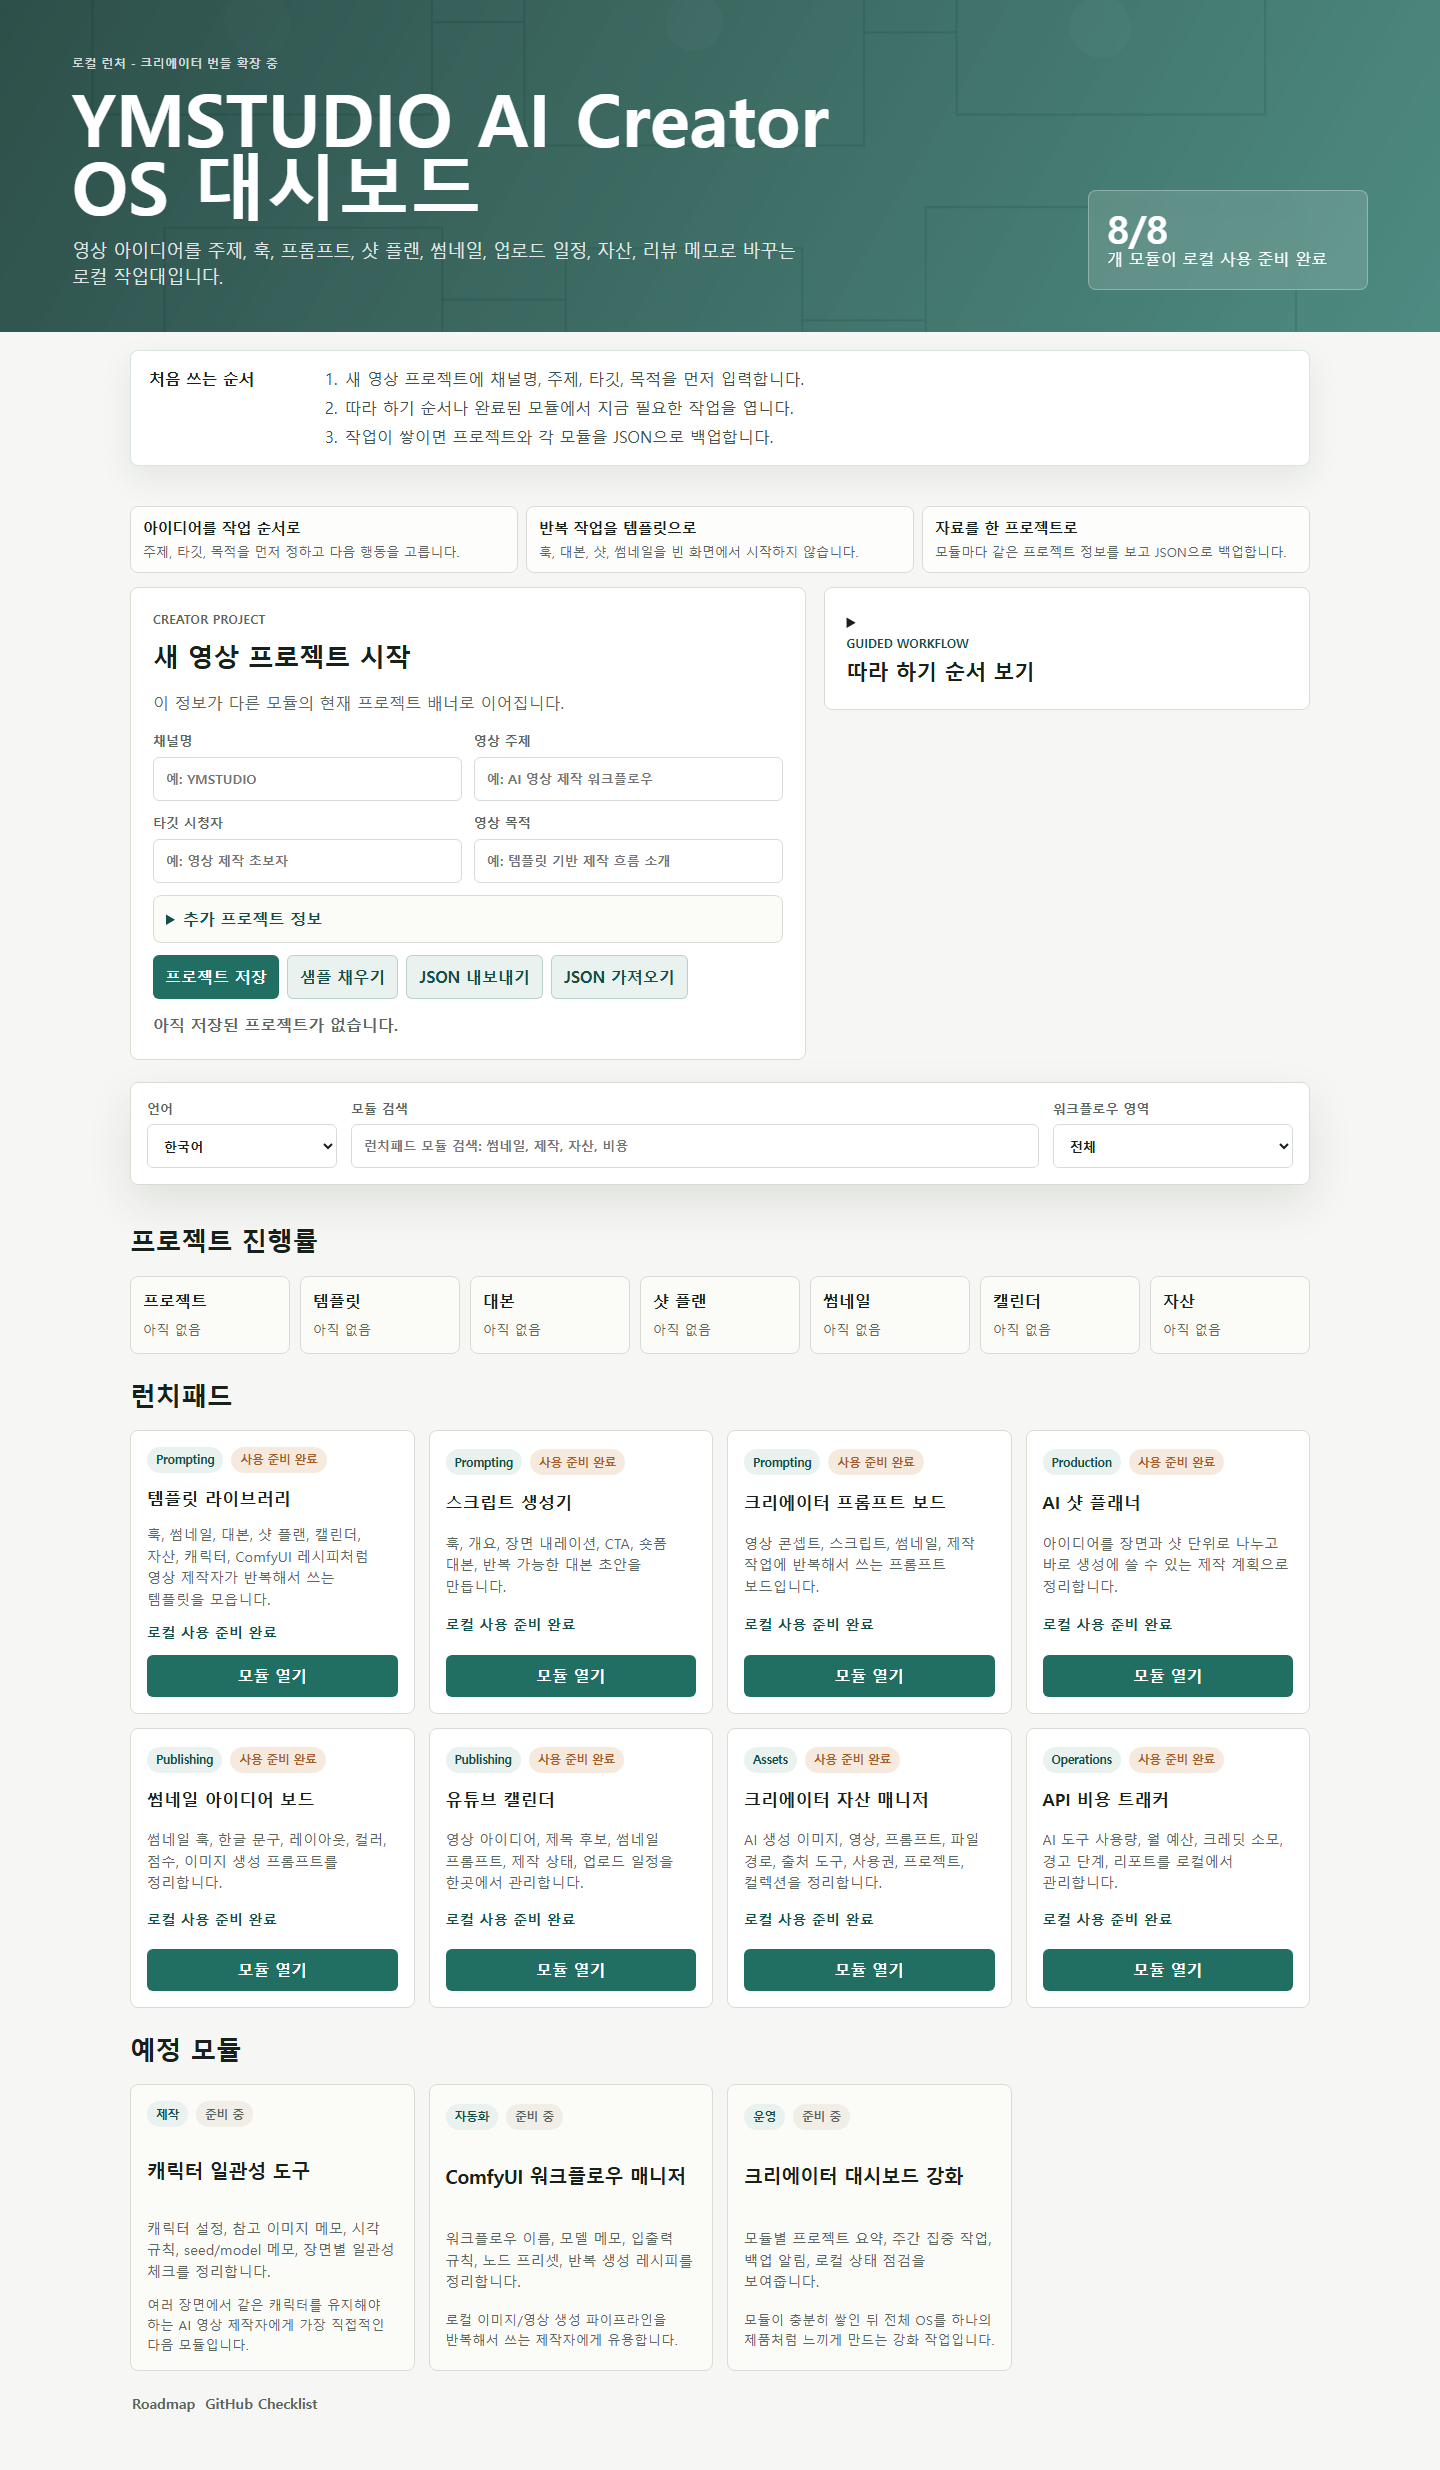
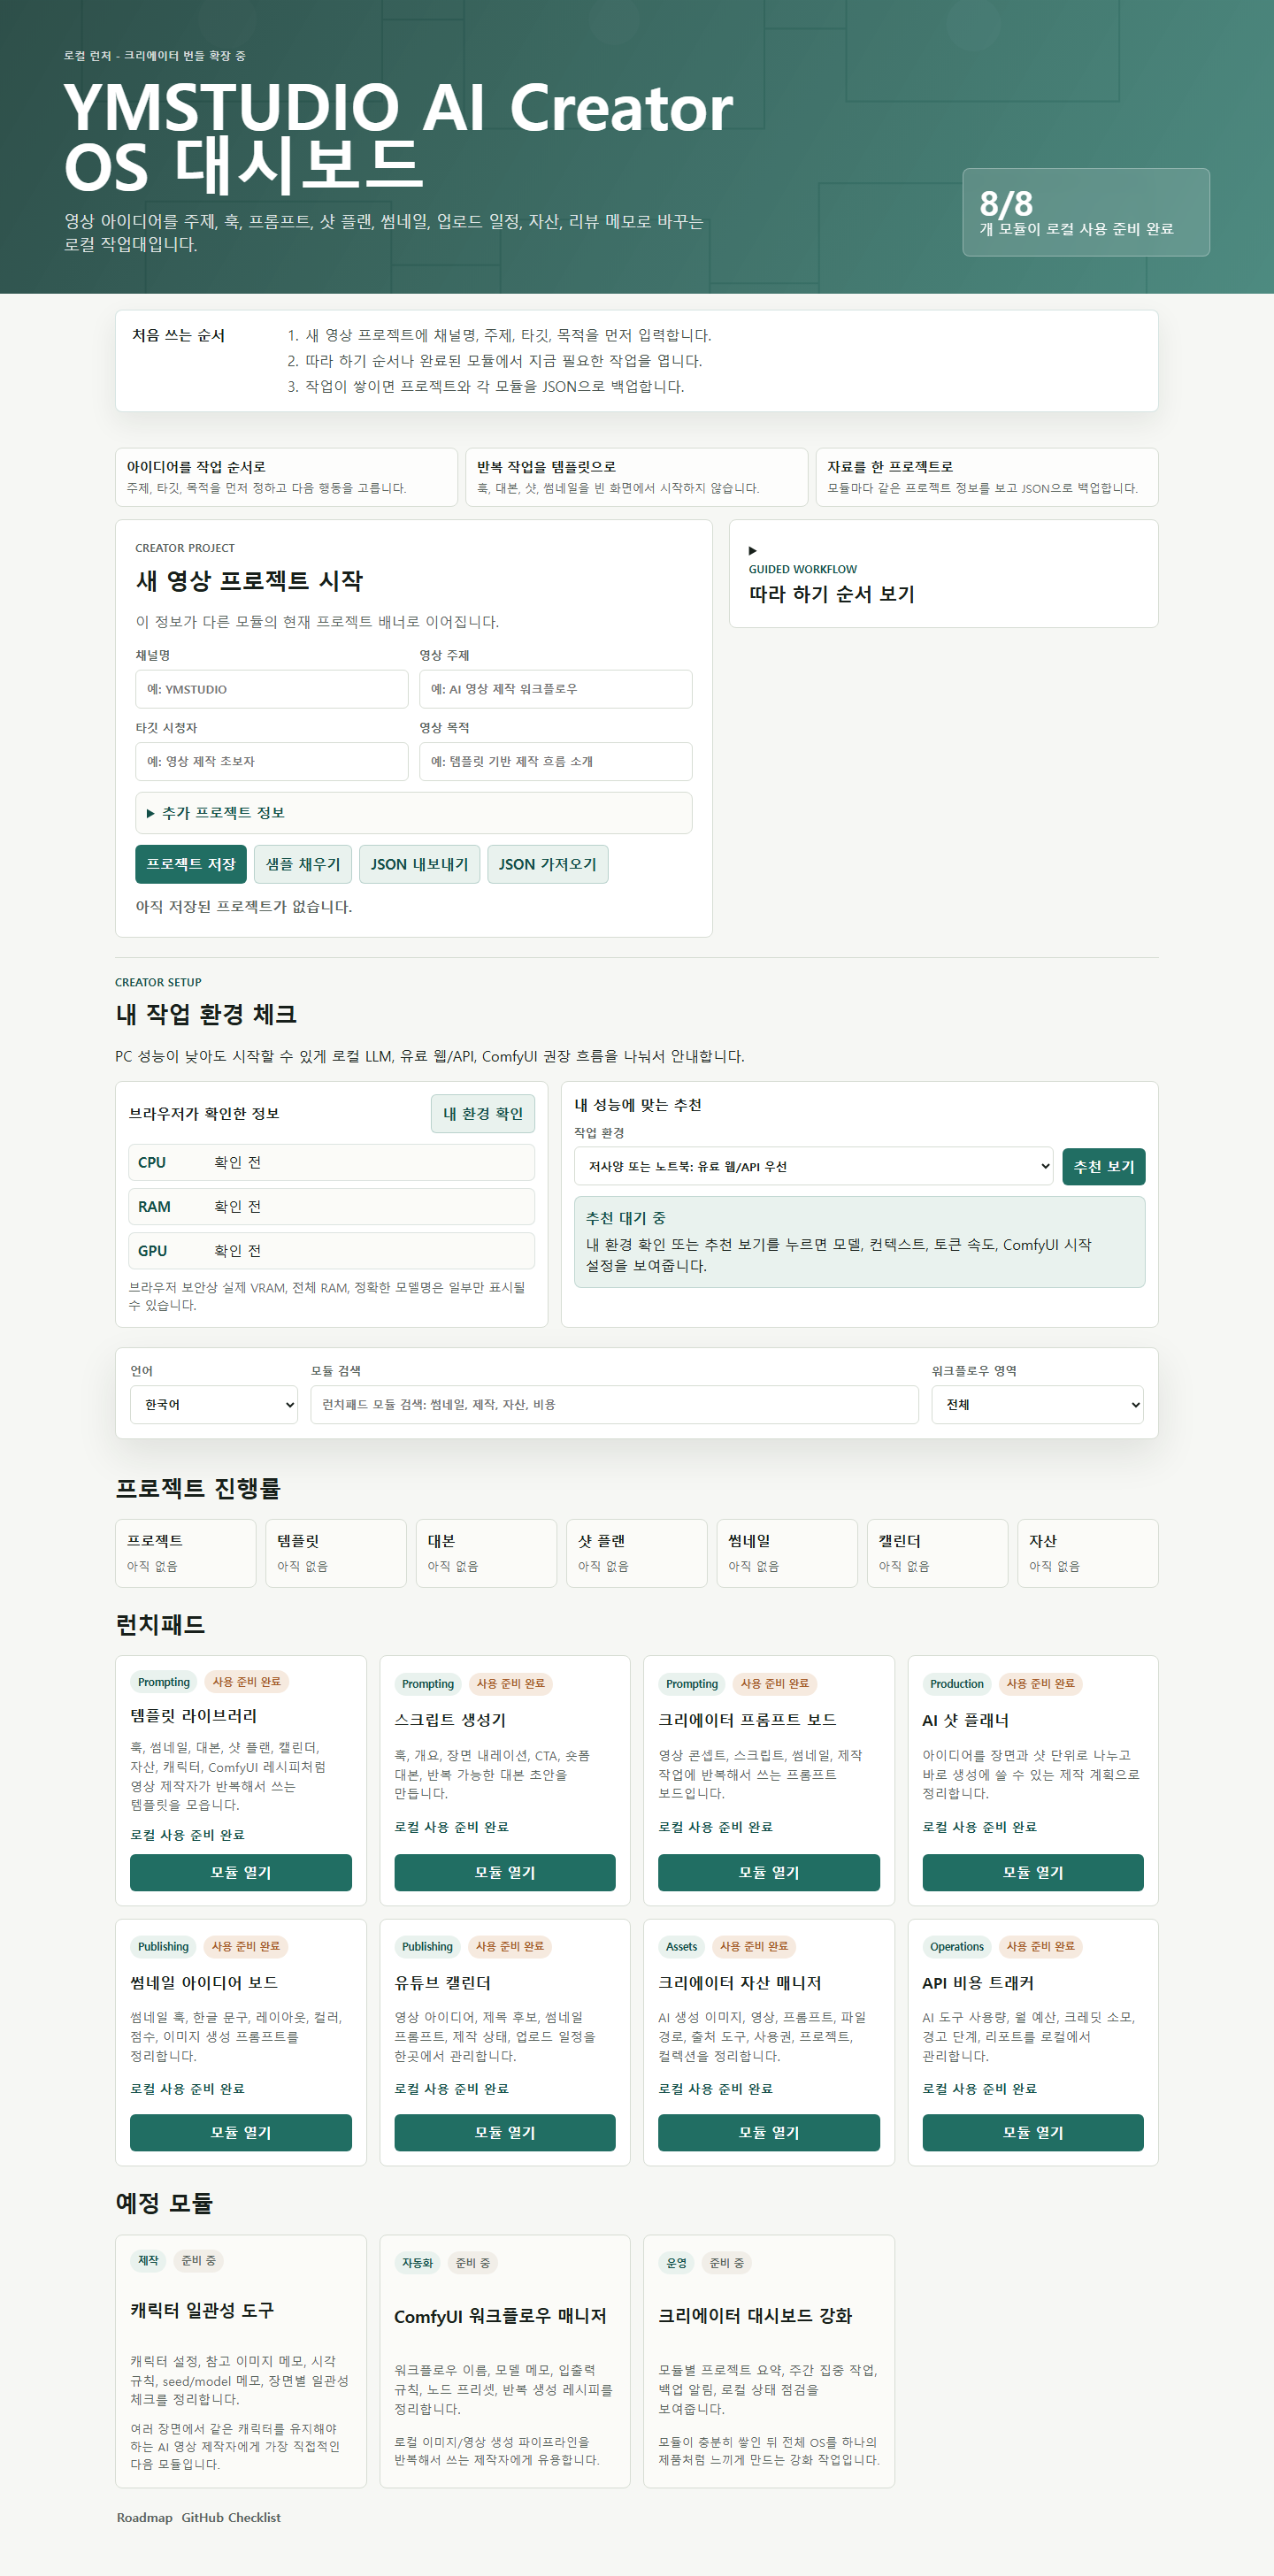
Add creator setup recommendation card

diff --git a/outputs/creator-os-dashboard/style.css b/outputs/creator-os-dashboard/style.css
@@ -287,6 +287,101 @@ button:focus {
   text-decoration: none;
 }
 
+.hardware-section {
+  border-top: 1px solid var(--line);
+  padding-top: 18px;
+}
+
+.hardware-grid {
+  display: grid;
+  grid-template-columns: minmax(0, 0.84fr) minmax(0, 1.16fr);
+  gap: 14px;
+}
+
+.hardware-card {
+  border: 1px solid var(--line);
+  border-radius: 8px;
+  padding: 14px;
+  background: var(--panel);
+}
+
+.hardware-card-heading,
+.hardware-controls {
+  display: flex;
+  gap: 10px;
+  align-items: center;
+  justify-content: space-between;
+}
+
+.hardware-controls {
+  align-items: end;
+  margin-top: 10px;
+}
+
+.hardware-controls label {
+  flex: 1 1 220px;
+}
+
+.hardware-specs {
+  display: grid;
+  gap: 8px;
+  margin: 12px 0 0;
+}
+
+.hardware-specs div {
+  display: grid;
+  grid-template-columns: 76px minmax(0, 1fr);
+  gap: 10px;
+  align-items: start;
+  border: 1px solid rgba(41, 92, 82, 0.14);
+  border-radius: 7px;
+  padding: 8px 10px;
+  background: #fbfbf8;
+}
+
+.hardware-specs dt {
+  color: var(--accent-strong);
+  font-weight: 900;
+}
+
+.hardware-specs dd {
+  margin: 0;
+  color: var(--text);
+  overflow-wrap: anywhere;
+}
+
+.hardware-note {
+  margin: 10px 0 0;
+  color: var(--muted);
+  font-size: 0.86rem;
+}
+
+.setup-recommendation {
+  margin-top: 12px;
+  border: 1px solid rgba(33, 110, 99, 0.2);
+  border-radius: 8px;
+  padding: 12px;
+  background: var(--soft);
+}
+
+.setup-recommendation strong {
+  display: block;
+  color: var(--accent-strong);
+  margin-bottom: 6px;
+}
+
+.setup-recommendation p,
+.setup-recommendation ul {
+  margin: 0;
+  color: var(--text);
+}
+
+.setup-recommendation ul {
+  display: grid;
+  gap: 6px;
+  padding-left: 18px;
+}
+
 .section {
   margin: 0 0 22px;
 }
@@ -579,6 +674,10 @@ h2 {
     grid-template-columns: repeat(3, minmax(0, 1fr));
   }
 
+  .hardware-grid {
+    grid-template-columns: 1fr;
+  }
+
   .planned-grid {
     grid-template-columns: repeat(2, minmax(0, 1fr));
   }
@@ -593,8 +692,16 @@ h2 {
 
   .toolbar,
   .summary-grid,
-  .project-form {
+  .project-form,
+  .hardware-card-heading,
+  .hardware-controls {
     grid-template-columns: 1fr;
+  }
+
+  .hardware-card-heading,
+  .hardware-controls {
+    display: grid;
+    align-items: stretch;
   }
 
   .module-grid {

diff --git a/outputs/creator-os-dashboard/app.js b/outputs/creator-os-dashboard/app.js
@@ -18,6 +18,13 @@
     projectStatus: document.querySelector("[data-project-status]"),
     workflowSteps: document.querySelector("[data-workflow-steps]"),
     progressGrid: document.querySelector("[data-progress-grid]"),
+    detectHardware: document.querySelector("[data-detect-hardware]"),
+    recommendSetup: document.querySelector("[data-recommend-setup]"),
+    performanceTier: document.querySelector("[data-performance-tier]"),
+    setupRecommendation: document.querySelector("[data-setup-recommendation]"),
+    specCpu: document.querySelector("[data-spec-cpu]"),
+    specMemory: document.querySelector("[data-spec-memory]"),
+    specGpu: document.querySelector("[data-spec-gpu]"),
   };
 
   const LANGUAGE_KEY = "ymstudio.creatorOS.language";
@@ -52,6 +59,47 @@
     { key: "ymstudio.youtubeCalendar.v1", label: "캘린더", href: "../youtube-calendar/index.html", read: (data) => data && Array.isArray(data.items) ? data.items.length : 0 },
     { key: "ymstudio.creatorAssetManager.v1", label: "자산", href: "../creator-asset-manager/index.html", read: (data) => data && Array.isArray(data.assets) ? data.assets.length : 0 },
   ];
+
+  const setupRecommendations = {
+    cloud: {
+      title: "저사양/노트북 추천: 유료 웹/API 우선",
+      lines: [
+        "LLM: ChatGPT, Claude, Gemini, Kimi 같은 웹/API 모델로 대본과 프롬프트를 만들고 로컬은 저장/정리용으로 씁니다.",
+        "로컬 모델: 필요하면 Gemma/Qwen/Llama 계열 2B-4B급만 짧은 메모 정리에 사용합니다.",
+        "컨텍스트: 8K-32K부터 시작하고 긴 자료는 장면/섹션 단위로 나눕니다.",
+        "속도 기대치: CPU 전용 환경에서는 2B급도 매우 느릴 수 있으니 품질 작업은 클라우드, 반복 정리는 로컬이 유리합니다.",
+        "ComfyUI: 768px 이하, 낮은 step, batch 1, 클라우드 GPU 또는 RunComfy류 서비스 보조를 권장합니다.",
+      ],
+    },
+    balanced: {
+      title: "중간 사양 추천: 로컬 소형 + 유료 보조",
+      lines: [
+        "LLM: 로컬 4B-8B급은 초안/분류/태그에 쓰고, 최종 대본과 복잡한 판단은 유료 웹/API로 넘깁니다.",
+        "컨텍스트: 16K-64K 범위에서 시작하고 프로젝트 JSON만 짧게 붙입니다.",
+        "속도 기대치: 초안은 로컬로 빠르게 반복하고, 느려지면 컨텍스트와 출력 길이를 줄입니다.",
+        "ComfyUI: 1024px 전후, batch 1, 이미지 먼저 검증 후 영상 워크플로우로 넘어갑니다.",
+      ],
+    },
+    local: {
+      title: "고사양 GPU 추천: 로컬 LLM/ComfyUI 우선",
+      lines: [
+        "LLM: 8B-14B급 이상 로컬 모델을 프롬프트 변형, 캐릭터 규칙, 자산 메모 자동화에 적극 사용합니다.",
+        "유료 모델: 최종 기획 검토, 긴 리서치, 복잡한 전략 판단에만 보조로 씁니다.",
+        "컨텍스트: 32K-128K까지 늘려도 되지만, 프로젝트별 JSON만 넣는 습관을 유지합니다.",
+        "속도 기대치: 토큰 속도는 GPU/양자화/컨텍스트 길이에 따라 크게 달라지므로 긴 출력보다 짧은 반복이 안정적입니다.",
+        "ComfyUI: 고해상도와 영상 워크플로우를 시도하되 VRAM 부족 시 해상도, step, batch를 먼저 낮춥니다.",
+      ],
+    },
+    manual: {
+      title: "모르겠을 때 안전 추천",
+      lines: [
+        "처음에는 유료 웹/API로 대본과 프롬프트를 만들고, Creator OS에는 결과와 JSON만 저장합니다.",
+        "로컬 LLM은 2B-4B급부터 테스트하고, 느리면 모델 크기보다 컨텍스트와 출력 길이를 먼저 줄입니다.",
+        "ComfyUI는 이미지 1장 생성 워크플로우부터 시작하고 영상/고해상도는 나중에 붙입니다.",
+        "프로젝트마다 프롬프트, 샷, 썸네일, 자산을 나눠 저장하면 저사양 PC도 작업 흐름은 유지됩니다.",
+      ],
+    },
+  };
 
   function getLanguage() {
     return localStorage.getItem(LANGUAGE_KEY) || "ko";
@@ -158,6 +206,35 @@
       return card;
     });
     elements.progressGrid.replaceChildren(...cards);
+  }
+
+  function getWebGlRenderer() {
+    const canvas = document.createElement("canvas");
+    const gl = canvas.getContext("webgl") || canvas.getContext("experimental-webgl");
+    if (!gl) return "WebGL 정보 없음";
+    const debugInfo = gl.getExtension("WEBGL_debug_renderer_info");
+    if (!debugInfo) return "GPU 이름 비공개";
+    return gl.getParameter(debugInfo.UNMASKED_RENDERER_WEBGL) || "GPU 이름 비공개";
+  }
+
+  function detectHardware() {
+    const threads = navigator.hardwareConcurrency ? `${navigator.hardwareConcurrency} 논리 스레드` : "브라우저에서 확인 불가";
+    const memory = navigator.deviceMemory ? `약 ${navigator.deviceMemory}GB 이상으로 추정` : "브라우저에서 확인 불가";
+    elements.specCpu.textContent = threads;
+    elements.specMemory.textContent = memory;
+    elements.specGpu.textContent = getWebGlRenderer();
+  }
+
+  function renderSetupRecommendation() {
+    const selected = setupRecommendations[elements.performanceTier.value] || setupRecommendations.manual;
+    const title = createTextElement("strong", "", selected.title);
+    const list = document.createElement("ul");
+    selected.lines.forEach((line) => {
+      const item = document.createElement("li");
+      item.textContent = line;
+      list.appendChild(item);
+    });
+    elements.setupRecommendation.replaceChildren(title, list);
   }
 
   function downloadProject() {
@@ -318,6 +395,9 @@
       if (confirmProjectOverwrite("기존 프로젝트를 가져온 JSON으로 바꿀까요?")) elements.importProjectFile.click();
     });
     elements.importProjectFile.addEventListener("change", () => importProjectFile(elements.importProjectFile.files[0]));
+    elements.detectHardware.addEventListener("click", detectHardware);
+    elements.recommendSetup.addEventListener("click", renderSetupRecommendation);
+    elements.performanceTier.addEventListener("change", renderSetupRecommendation);
   }
 
   if (document.readyState === "loading") {

diff --git a/outputs/creator-os-dashboard/index.html b/outputs/creator-os-dashboard/index.html
@@ -77,6 +77,47 @@
         </details>
       </section>
 
+      <section class="section hardware-section" aria-labelledby="hardware-title">
+        <div class="section-heading">
+          <p class="eyebrow">Creator Setup</p>
+          <h2 id="hardware-title">내 작업 환경 체크</h2>
+          <p class="section-note">PC 성능이 낮아도 시작할 수 있게 로컬 LLM, 유료 웹/API, ComfyUI 권장 흐름을 나눠서 안내합니다.</p>
+        </div>
+        <div class="hardware-grid">
+          <article class="hardware-card">
+            <div class="hardware-card-heading">
+              <strong>브라우저가 확인한 정보</strong>
+              <button class="secondary-action" type="button" data-detect-hardware>내 환경 확인</button>
+            </div>
+            <dl class="hardware-specs" data-hardware-specs>
+              <div><dt>CPU</dt><dd data-spec-cpu>확인 전</dd></div>
+              <div><dt>RAM</dt><dd data-spec-memory>확인 전</dd></div>
+              <div><dt>GPU</dt><dd data-spec-gpu>확인 전</dd></div>
+            </dl>
+            <p class="hardware-note">브라우저 보안상 실제 VRAM, 전체 RAM, 정확한 모델명은 일부만 표시될 수 있습니다.</p>
+          </article>
+          <article class="hardware-card">
+            <strong>내 성능에 맞는 추천</strong>
+            <div class="hardware-controls">
+              <label>
+                <span>작업 환경</span>
+                <select data-performance-tier>
+                  <option value="cloud">저사양 또는 노트북: 유료 웹/API 우선</option>
+                  <option value="balanced">중간 사양: 로컬 소형 + 유료 보조</option>
+                  <option value="local">고사양 GPU: 로컬 LLM/ComfyUI 우선</option>
+                  <option value="manual">모르겠음: 안전 설정 추천</option>
+                </select>
+              </label>
+              <button class="primary-action" type="button" data-recommend-setup>추천 보기</button>
+            </div>
+            <div class="setup-recommendation" data-setup-recommendation>
+              <strong>추천 대기 중</strong>
+              <p>내 환경 확인 또는 추천 보기를 누르면 모델, 컨텍스트, 토큰 속도, ComfyUI 시작 설정을 보여줍니다.</p>
+            </div>
+          </article>
+        </div>
+      </section>
+
       <section class="toolbar" aria-label="Launchpad module filters">
         <label>
           <span data-i18n="languageLabel">언어</span>

diff --git a/outputs/creator-os-dashboard/test.js b/outputs/creator-os-dashboard/test.js
@@ -104,6 +104,10 @@ function testStaticUiBindings() {
     "data-save-project",
     "data-workflow-steps",
     "data-progress-grid",
+    "data-detect-hardware",
+    "data-recommend-setup",
+    "data-performance-tier",
+    "data-setup-recommendation",
     "ROADMAP.md",
     "PUBLISHING_CHECKLIST.md",
     "state.js",
@@ -111,7 +115,7 @@ function testStaticUiBindings() {
   ].forEach((token) => {
     assert.ok(index.includes(token), `index.html should include ${token}`);
   });
-  ["textContent", "createElement", "addEventListener", "filterModules", "ymstudio.creatorOS.language", "ymstudio.creatorProject.v1", "downloadProject", "importProjectFile", "renderProgress"].forEach((token) => {
+  ["textContent", "createElement", "addEventListener", "filterModules", "ymstudio.creatorOS.language", "ymstudio.creatorProject.v1", "downloadProject", "importProjectFile", "renderProgress", "detectHardware", "renderSetupRecommendation", "navigator.hardwareConcurrency", "navigator.deviceMemory"].forEach((token) => {
     assert.ok(app.includes(token), `app.js should include ${token}`);
   });
   assert.ok(!app.includes("innerHTML"), "app.js should avoid unsafe raw HTML rendering");

diff --git a/scripts/test_creator_os_interactions.py b/scripts/test_creator_os_interactions.py
@@ -75,6 +75,19 @@ def main() -> int:
             "name": "dashboard_project_export_download",
             "passed": download.suggested_filename == "creator-project.json",
         })
+        page.click("[data-detect-hardware]")
+        page.select_option("[data-performance-tier]", "balanced")
+        page.click("[data-recommend-setup]")
+        setup_text = page.locator("[data-setup-recommendation]").inner_text(timeout=3000)
+        cpu_text = page.locator("[data-spec-cpu]").inner_text(timeout=3000)
+        checks.append({
+            "name": "dashboard_setup_recommendation",
+            "passed": "중간 사양 추천" in setup_text and "컨텍스트" in setup_text,
+        })
+        checks.append({
+            "name": "dashboard_hardware_detection",
+            "passed": cpu_text != "확인 전",
+        })
 
         template = OUTPUTS / "template-library" / "index.html"
         page.goto(file_url(template), wait_until="networkidle")

diff --git a/README.md b/README.md
@@ -35,6 +35,7 @@ The dashboard includes a local Creator Project profile for a single video projec
 - Thumbnail Idea Board can send thumbnail prompts into YouTube Calendar
 - AI Shot Planner can send selected shots into Creator Asset Manager
 - Dashboard progress cards show whether project, templates, scripts, shots, thumbnails, calendar items, and assets exist locally
+- Dashboard setup card shows browser-visible CPU/RAM/GPU hints and recommends low-spec, balanced, local-first, or cloud-first LLM/ComfyUI workflows
 
 Project planning notes are kept outside the dashboard:
 